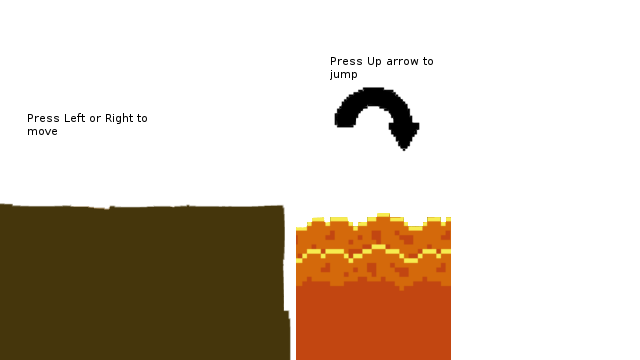
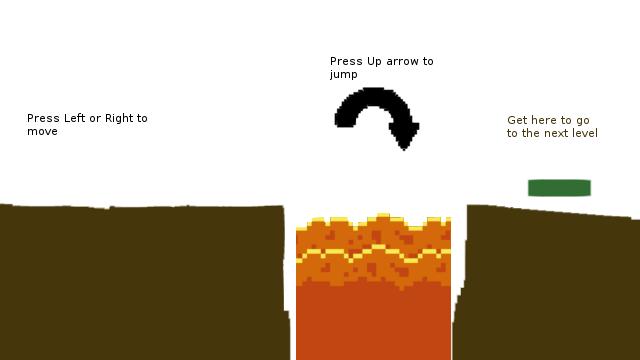
Adding new levels

Changed region(s): [[0.6875, 0.55, 1.0, 1.0], [0.7812, 0.3056, 0.9375, 0.3972], [0.8125, 0.4889, 0.9375, 0.55]]

diff --git a/index.html b/index.html
@@ -1,27 +1,27 @@
 <!doctype html>
 <html>
-	<head>
-    		<script src="phaser.min.js"></script>
-    		<script src="src/boot.js"></script>
-		<script src="src/preload.js"></script>
-		<script src="src/gametitle.js"></script>
-		<script src="src/thegame.js"></script>
-		<script src="src/gameover.js"></script>	
-    		<style>
-    			body{margin:0}
-    		</style>
-		<script>
-			(function() {
-				var game = new Phaser.Game(640, 360, Phaser.CANVAS, "game");
-				game.state.add("Boot",boot);
-				game.state.add("Preload",preload);
-				game.state.add("GameTitle",gameTitle);
-				game.state.add("TheGame",theGame);
-				game.state.add("GameOver",gameOver);
-				game.state.start("Boot");
-			})();    
-		</script>
-    </head>
-    <body>
-    </body>
+  <head>
+    <script src="phaser.min.js"></script>
+    <script src="src/boot.js"></script>
+    <script src="src/preload.js"></script>
+    <script src="src/gametitle.js"></script>
+    <script src="src/thegame.js"></script>
+    <script src="src/gameover.js"></script>	
+    <style>
+      body{margin:0}
+    </style>
+    <script>
+      (function() {
+      var game = new Phaser.Game(640, 360, Phaser.CANVAS, "game");
+      game.state.add("Boot",boot);
+      game.state.add("Preload",preload);
+      game.state.add("GameTitle",gameTitle);
+      game.state.add("TheGame",theGame);
+      game.state.add("GameOver",gameOver);
+      game.state.start("Boot");
+      })();    
+    </script>
+  </head>
+  <body>
+  </body>
 </html>

diff --git a/src/preload.js b/src/preload.js
@@ -3,22 +3,19 @@ var preload = function(game){}
 preload.prototype = {
   preload: function(){ 
     this.stage.backgroundColor = "#FFFFFF"
-    var loadingBar = this.add.sprite(160,240,"loading");
-    loadingBar.anchor.setTo(0.5,0.5);
-    this.load.setPreloadSprite(loadingBar);
     
     this.game.load.image('back', 'assets/menu/background.png');
     this.game.load.image('start', 'assets/menu/start.png');
     this.game.load.image('exit', 'assets/menu/exit.png');
-    this.game.load.image('character', 'assets/character.png');
+    this.game.load.image('character', 'assets/character/character.png');
     this.game.load.image('enemy', 'assets/npcs/RightMonnew.png');
     this.game.load.image('platform_ni', 'assets/platforms/platformgrass.png');
     this.game.load.image('platform_i', 'assets/platforms/platform_i.png');
     this.game.load.image('right_f_wall', 'assets/platforms/WallFaceRight.png');
     this.game.load.image('left_f_wall', 'assets/platforms/WallFaceLeft.png');
-    this.game.load.image('jump_pad', 'assets/jumppad.png');
-    this.game.load.image('turret', 'assets/turret.png');
-    this.game.load.image('rocket', 'assets/rocket.png');
+    this.game.load.image('jump_pad', 'assets/misc_objects/jumppad.png');
+    this.game.load.image('turret', 'assets/misc_objects/turret.png');
+    this.game.load.image('rocket', 'assets/misc_objects/rocket.png');
     
     this.game.load.image('background1', 'assets/levelbackgrounds/background1.png');
     

diff --git a/src/level1.js b/src/level1.js
@@ -1,29 +1,23 @@
 var theGame = function(game){}
-var character;
+var character = null;
+var enemy = null;
 var rocket = null; 
 var reload;
 theGame.prototype = {
-  
-
   level1_create: function() {
      
   },
   create: function(){
     this.stage.backgroundColor = "#FFFFFF"
     this.game.add.sprite(0,0,"background1")
-    //enemy = this.game.add.sprite(100, 100, "enemy");
-    enemy = null;
-    //this.game.physics.enable(enemy);
-    //enemy.body.gravity.y = 1000;
-    //enemy.body.collideWorldBounds = true;
-    character = this.game.add.sprite(0,0,"character");
-    this.game.physics.enable(character);
+    
     this.game.physics.startSystem(Phaser.Physics.ARCADE);
     
-    
+    character = this.game.add.sprite(0,0,"character");
+    this.game.physics.enable(character);
     character.body.gravity.y = 1000;
     character.body.collideWorldBounds = true;
-  
+    
     this.turret = this.add.physicsGroup();
     this.rocket = this.add.physicsGroup();
     this.jump_pad = this.add.physicsGroup();

diff --git a/src/gametitle.js b/src/gametitle.js
@@ -1,14 +1,19 @@
 var gameTitle = function(game){}
 
 gameTitle.prototype = {
-  	create: function(){
-                this.stage.backgroundColor = "#FFFFFF"
-		this.game.add.sprite(0,0,"back");
-		var playButton = this.game.add.button(320,170,"start",this.playTheGame,this);
-		playButton.anchor.setTo(0.5,0.5);
-	},
-
-	playTheGame: function(){
-		this.game.state.start("TheGame");
-	}
+  create: function(){
+    this.stage.backgroundColor = "#FFFFFF"
+    this.game.add.sprite(0,0,"back");
+    var playButton = this.game.add.button(235,170,"start",this.playTheGame,this);
+    var exitButton = this.game.add.button(235,220,"exit",this.exitTheGame,this);
+  },
+  
+  playTheGame: function(){
+    this.game.state.start("TheGame");
+  },
+  exitTheGame: function(){
+    this.playButton.destroy;
+    this.exitButton.destroy;
+    
+  }
 }

diff --git a/src/boot.js b/src/boot.js
@@ -1,10 +1,8 @@
 var boot = function(game){
-	console.log("%cStarting my awesome game", "color:white; background:white");
 };
   
 boot.prototype = {
 	preload: function(){
-          this.game.load.image("loading","assets/loading.png"); 
 	},
   	create: function(){
 		//this.scale.scaleMode = Phaser.ScaleManager.SHOW_ALL;
